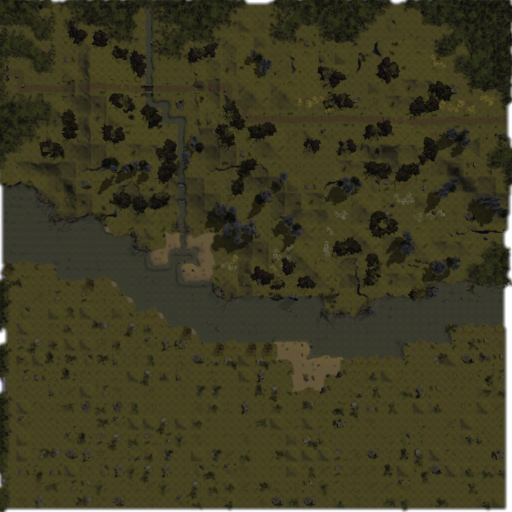
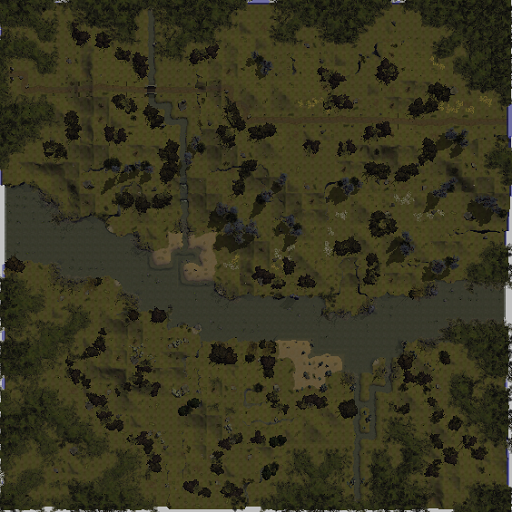
v211209

diff --git a/common.js b/common.js
@@ -8,7 +8,7 @@ var Loader = {
 
 var map = {
     cols: 30,
-    rows: 15,
+    rows: 17,
     tsize: 512,
     csize: 256,
     csize_noscr: 100,
@@ -17,18 +17,20 @@ var map = {
         '0map',          '0map',          '0map',        '0map',        '0map',         '0map',            '0map',           '0map',            '0map',            '0map',            '0map',            '0map',            '0map',            '0map',            '0map',            '0map',            '0map',            '0map',            '0map',            '0map',           '0map',           '0map',                '0map',            '0map',            '0map',            '0map',         '0map',             '0map',         '0map',         '0map',       
         '0map',          '0map',          '0map',        '0map',        '0map',         '0map',            '0map',           '0map',            '0map',            '0map',            '0map',            '0map',            '0map',            '0map',            '0map',            '0map',            '0map',            '0map',            '0map',            '0map',           '0map',           '0map',                't_varyth_torf_w', 't_varyth_tor',    't_varyth_torf_e', '0map',         '0map',             '0map',         '0map',         '0map',       
         't_zazesspur_nw','t_zazesspur_ne','0map',        '0map',        '0map',         '0map',            '0map',           '0map',            '0map',            '0map',            '0map',            '0map',            '0map',            '0map',            '0map',            '0map',            '0map',            '0map',            't_lhestyn_quay',  't_masamont_road','t_masamount',    't_masamount_wudn',    't_varyth_torf_sw','t_varyth_torf_s', 't_varyth_torf_se','0map',         '0map',             '0map',         '0map',         '0map',       
-        't_zazesspur_sw','t_zazesspur_se','t_venazir_ne','SulZaz2',     '0map',         '0map',            't_tethyrcast_nw','t_tethyrcast_n',  't_tethyrcast_ne', 'SuldusBard1',     '0map',            'IthmonSulW',      't_hostim_quay',   'IthmonSulE',      'IthmonSulE1',     'IthmonSulE2',     't_grannox',       't_grannox_farms', 't_lhestynheart',  't_freelm_farms', 't_freelmanse',   't_masamount_wuds',    't_varyth_plain_w','t_varyth_plain_c','t_varyth_plain_e','0map',         '0map',             '0map',         '0map',         '0map',       
-        't_venazir_sw',  't_venazir_s',   't_venazir_se','SulZaz3',     'SulZaz4',      'SulZaz5',         't_tethyrcast_w', 't_tethyrcast',    't_tethyrcast_e',  'SuldusBard2',     'SuldusBard3',     'SuldusBard4',     't_hostim',        '0map',            '0map',            '0map',            't_lhest_gorge',   't_lhest_farm_sw', 't_lhest_farm_s',  't_lhest_farm_se','t_rivshrehill_n','t_rivshrehill_ne',    't_varyth_hill_nw','t_varyth_hill_n', 't_varyth_hill_ne','t_iltarghal',  '0map',             't_survale',    '0map',         '0map',       
+        't_zazesspur_sw','t_zazesspur_se','t_venazir_ne','SulZaz2',     '0map',         '0map',            't_tethyrcast_nw','t_tethyrcast_n',  't_tethyrcast_ne', 'SuldusBard1',     '0map',            'IthmonSulW',      't_hostim_quay',   'IthmonSulE',      't_ithmn_sul_e1',  't_ithmn_sul_e2',  't_grannox',       't_grannox_farms', 't_lhestynheart',  't_freelm_farms', 't_freelmanse',   't_masamount_wuds',    't_varyth_plain_w','t_varyth_plain_c','t_varyth_plain_e','0map',         '0map',             '0map',         '0map',         '0map',       
+        't_venazir_sw',  't_venazir_s',   't_venazir_se','SulZaz3',     'SulZaz4',      'SulZaz5',         't_tethyrcast_w', 't_tethyrcast',    't_tethyrcast_e',  'SuldusBard2',     'SuldusBard3',     'SuldusBard4',     't_hostim',        '0map',            't_ithmon_crag_nw','t_ithmon_crag_ne','t_lhest_gorge',   't_lhest_farm_sw', 't_lhest_farm_s',  't_lhest_farm_se','t_rivshrehill_n','t_rivshrehill_ne',    't_varyth_hill_nw','t_varyth_hill_n', 't_varyth_hill_ne','t_iltarghal',  '0map',             't_survale',    '0map',         '0map',       
         '0map',          '0map',          'OldKingRoad1','OldKingRoad2','OldKingRoad3', 'OldKingRoad4',    't_tethyrcast_sw','t_tethyrcast_s',  't_tethyrcast_se', '0map',            '0map',            't_hostim_hill_w', 't_hostim_road',   't_hostim_hill_e', 't_hostim_hille2', 't_hostim_hille3', 't_qonsir',        't_qonsir_farm',   't_lhest_road',    't_rivshrehill_w','t_rivshrehill_c','t_st_ostus',          't_varyth_hill_sw','t_varyth_hill_s', 't_varyth_hill_se','0map',         '0map',             '0IthalRoadNS', '0map',         '0map',       
         '0map',          '0map',          '0map',        '0map',        '0map',         't_sahark_crossrd','t_saharkhan',    't_bardshy_itr_1', 't_bardshy_itr_2', 't_bardshy_itr_3', 't_bardshy_itr_4', 't_ithmon_ithr_w1','t_ithmon_ithr_w2','t_ithmon_lorcros','t_ithmon_ithr_e1','t_ithmon_ithr_e2','t_rvrshr_ithrdw', 't_crownfarms_nw', 't_crownfarms_n',  't_crownfarms_ne','t_rivshrehill_s','t_rivshrehill_se',    '0map',            '0map',            't_thrynnar_hold', '0IthalRoadWE', '0IthalRoadWE',     '0IthalRoadNWE','0IthalRoadWS', '0map',       
         '0map',          '0map',          '0map',        '0map',        '0map',         '0IthalRoadNS',    '0map',           '0map',            '0map',            '0map',            '0map',            '0map',            't_ithmon_farm_nw','t_ithmon_farm_n', 't_ithmon_farm_ne','t_loransewood_n', 't_crownfarms_iw2','t_crownfarms_iw1','t_darromar',      't_foyen_rd',     't_foyen',        '0map',                '0map',            '0map',            '0IthalRoadNS',    '0map',         '0map',             '0map',         '0IthalRoadEN', 't_veaddakar',       
         '0map',          '0map',          '0map',        't_dasaajk',   '0map',         '0IthalRoadNS',    '0map',           '0map',            '0map',            '0map',            '0map',            '0map',            't_ithmon_farm_w', 't_ithmon_loranse','t_ithmon_farm_e', 't_loransewood_s', '0map',            't_clov_fld_nw',   't_clov_fld_itr_n','0map',           '0map',           '0map',                '0IthalRoadES',    '0IthalRoadWE',    '0IthalRoadWN',    '0map',         '0map',             '0map',         '0map',         '0map',       
         '0map',          't_vineshade',   '0map',        '0map',        '0map',         't_krennasar',     '0map',           '0map',            '0map',            '0map',            '0map',            '0map',            '0map',            '0map',            '0map',            '0map',            't_ruba',          '0IthalRoadWE',    't_clov_fld_itr_s','0IthalRoadWES',  '0IthalRoadWE',   '0IthalRoadWE',        '0IthalRoadNWS',   '0map',            '0map',            '0map',         '0map',             '0map',         '0map',         '0map',       
-        '0map',          '0map',          '0map',        '0map',        '0IthalRoadES', '0IthalRoadWN',    '0map',           '0map',            '0map',            '0map',            '0map',            '0map',            '0map',            '0map',            '0map',            '0map',            '0map',            '0map',            '0map',            't_abbor',        '0map',           '0map',                '0IthalRoadNES',   '0IthalRoadWE',    '0IthalRoadWE',    '0IthalRoadWE', '0IthalRoadWS',     '0map',         '0map',         '0map',       
-        '0map',          '0map',          '0map',        't_refields_n','t_refields_ne','0map',            '0map',           '0map',            '0map',            '0map',            '0map',            '0map',            '0map',            '0map',            '0map',            '0map',            '0map',            '0map',            '0map',            '0map',           '0map',           '0map',                't_mistletoe',     '0map',            '0map',            '0map',         '0IthalRoadNES',    '0IthalRoadWE', '0IthalRoadWES','t_barakmordin',       
-        '0map',          '0map',          't_myratma_w', 't_myratma_e', 't_refields_e', '0map',            '0map',           't_maratimmir',    '0map',            '0map',            '0map',            '0map',            '0map',            '0map',            '0map',            '0map',            '0map',            '0map',            '0map',            '0map',           '0map',           '0map',                '0map',            '0map',            '0map',            '0map',         '0IthalRoadNS',     '0map',         '0IthalRoadNS', '0map',       
-        '0map',          '0map',          '0map',        '0map',        '0map',         '0map',            '0map',           '0map',            '0map',            '0map',            '0map',            '0map',            '0map',            '0map',            '0map',            '0map',            '0map',            '0map',            '0map',            '0map',           '0map',           '0map',                '0map',            '0map',            '0map',            't_magis_tor',  '0IthalRoadWN',     '0map',         '0IthalRoadNS', '0map',       
-        '0map',          '0map',          '0map',        '0map',        '0map',         '0map',            '0map',           '0map',            '0map',            '0map',            '0map',            '0map',            '0map',            '0map',            '0map',            '0map',            '0map',            '0map',            '0map',            '0map',           '0map',           '0map',                '0map',            '0map',            '0map',            '0map',         '0map',             '0map',         't_adarthir',   '0map'
+        '0map',          '0map',          '0map',        '0map',        '0IthalRoadES', '0IthalRoadWN',    '0map',           '0map',            '0map',            '0map',            '0map',            '0map',            '0map',            '0map',            '0map',            '0map',            '0IthalRoadNS',    '0map',            '0map',            't_abbor',        '0map',           '0map',                '0IthalRoadNES',   '0IthalRoadWE',    '0IthalRoadWE',    '0IthalRoadWE', '0IthalRoadWS',     '0map',         '0map',         '0map',       
+        '0map',          '0map',          '0map',        't_refields_n','t_refields_ne','0map',            '0map',           '0map',            '0map',            '0map',            '0map',            '0map',            '0map',            '0map',            't_pelmarin',      '0IthalRoadWE',    '0IthalRoadWN',    '0map',            '0map',            '0map',           '0map',           '0map',                't_mistletoe',     '0map',            '0map',            '0map',         '0IthalRoadNES',    '0IthalRoadWE', '0IthalRoadWES','t_barakmordin',       
+        '0map',          '0map',          't_myratma_w', 't_myratma_e', 't_refields_e', '0IthalRoadWE',    '0IthalRoadWE',   't_maratimmir',    '0IthalRoadWE',    '0IthalRoadWE',    '0IthalRoadWE',    '0IthalRoadWES',   '0IthalRoadWE',    '0IthalRoadWE',    '0IthalRoadWN',    '0map',            '0map',            '0map',            '0map',            '0map',           '0map',           '0map',                '0map',            '0map',            '0map',            '0map',         '0IthalRoadNS',     '0map',         '0IthalRoadNS', '0map',       
+        '0map',          '0map',          '0map',        '0map',        '0map',         '0map',            '0map',           '0map',            '0map',            '0map',            '0map',            't_fort_teqlar',   't_shoonach_ilt',  't_shoonach_run',  '0map',            '0map',            '0map',            '0map',            '0map',            '0map',           '0map',           '0map',                '0map',            '0map',            '0map',            't_magis_tor',  '0IthalRoadWN',     '0map',         '0IthalRoadNS', '0map',       
+        '0map',          '0map',          '0map',        '0map',        '0map',         '0map',            '0map',           '0map',            '0map',            '0map',            't_shoonach_gaw',  '0map',            '0map',            '0map',            't_shoonach_deb',  '0map',            '0map',            '0map',            '0map',            '0map',           '0map',           '0map',                '0map',            '0map',            '0map',            '0map',         '0map',             '0map',         't_adarthir',   '0map',
+        '0map',          '0map',          '0map',        '0map',        '0map',         '0map',            '0map',           '0map',            '0map',            '0map',            '0map',            't_shoonach_mum',  't_shoonach_imp',  '0map',            't_shoonach_gae',  '0map',            '0map',            '0map',            '0map',            '0map',           '0map',           '0map',                '0map',            '0map',            '0map',            '0map',         '0map',             '0map',         '0map',         '0map',
+        '0map',          '0map',          '0map',        '0map',        '0map',         '0map',            '0map',           '0map',            '0map',            '0map',            '0map',            '0map',            't_shoonach_agi',  '0map',            '0map',            '0map',            '0map',            '0map',            '0map',            '0map',           '0map',           '0map',                '0map',            '0map',            '0map',            '0map',         '0map',             '0map',         '0map',         '0map'                        
     ], [
       //                  10                  20                  30
       //1 2 3 4 5 6 7 8 9   1 2 3 4 5 6 7 8 9   1 2 3 4 5 6 7 8 9
@@ -46,6 +48,8 @@ var map = {
         0,0,0,0,0,0,0,0,0,0,0,0,0,0,0,0,0,0,0,0,0,0,0,0,0,0,0,0,0,0,
         0,0,0,0,0,0,0,0,0,0,0,0,0,0,0,0,0,0,0,0,0,0,0,0,0,0,0,0,0,0,
         0,0,0,0,0,0,0,0,0,0,0,0,0,0,0,0,0,0,0,0,0,0,0,0,0,0,0,0,0,0,
+        0,0,0,0,0,0,0,0,0,0,0,0,0,0,0,0,0,0,0,0,0,0,0,0,0,0,0,0,0,0,
+        0,0,0,0,0,0,0,0,0,0,0,0,0,0,0,0,0,0,0,0,0,0,0,0,0,0,0,0,0,0,        
         0,0,0,0,0,0,0,0,0,0,0,0,0,0,0,0,0,0,0,0,0,0,0,0,0,0,0,0,0,0
     ]],
     getTile: function (layer, col, row) {

diff --git a/maps/no-scroll.html b/maps/no-scroll.html
@@ -30,7 +30,7 @@
 
 <div class="main-wrapper">
     <div id='d1' style="position:relative; top:0%; left:auto; z-index:1"> 
-        <canvas id="demo" width="3000" height="1500"></canvas>
+        <canvas id="demo" width="3000" height="1700"></canvas>
     </div>
 <!--
     <footer class="main-footer">
